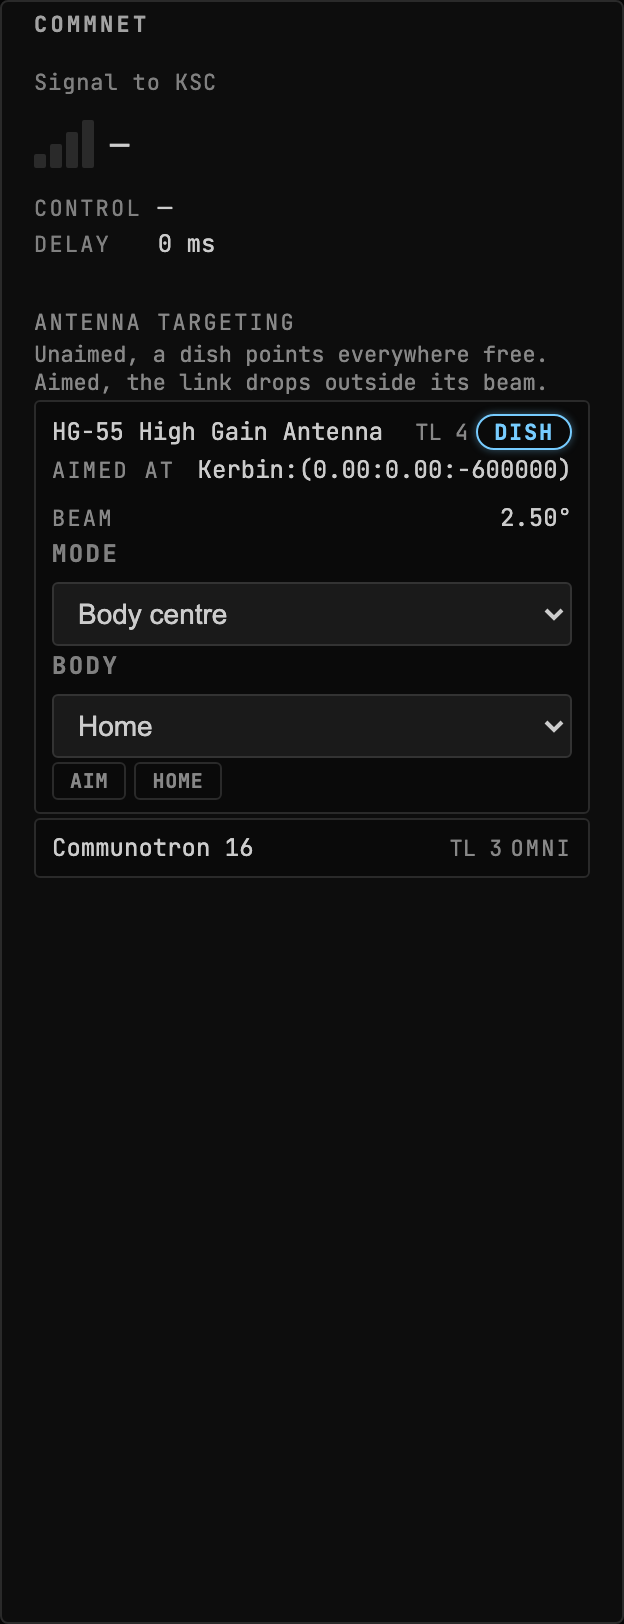
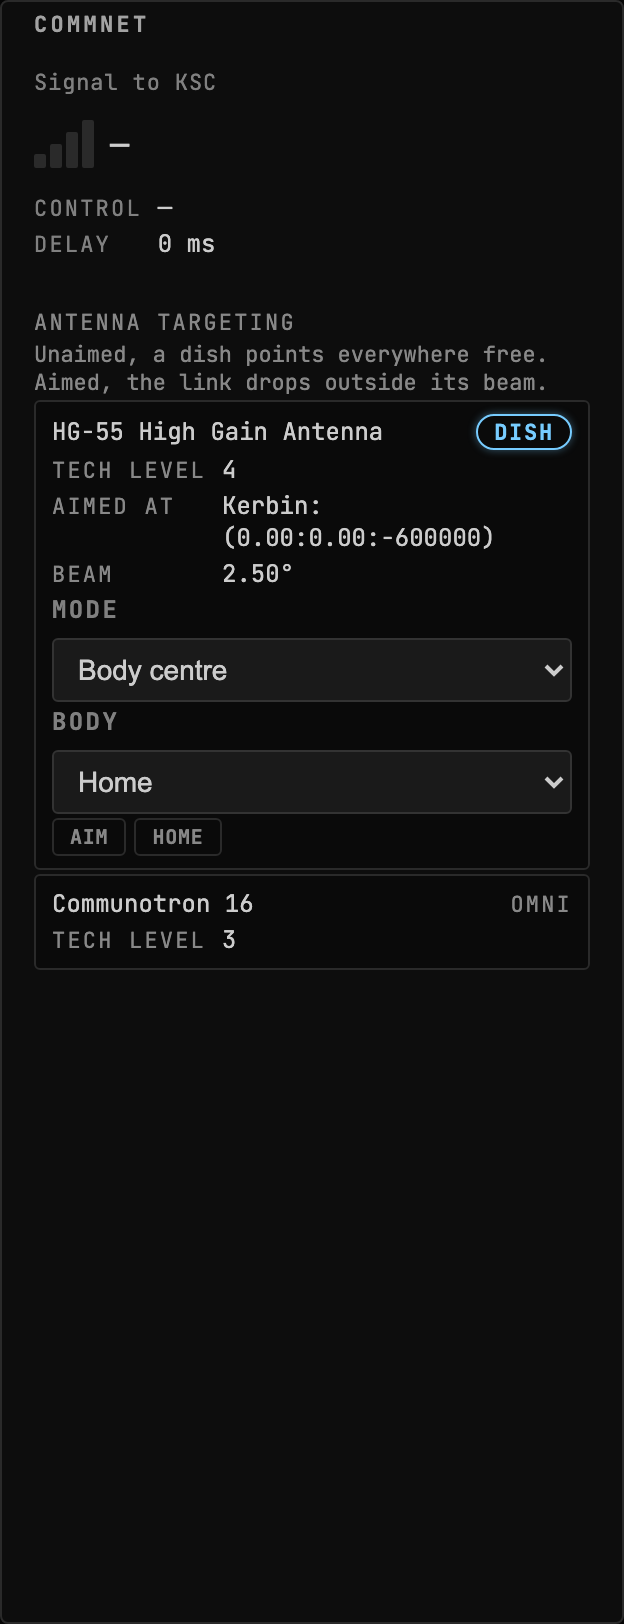
fix(realantennas): read each antenna card as label and value, and keep its badge after its name

diff --git a/mod/GonogoRealAntennasUplink/client/src/CommSignalAntennaTargets/index.tsx b/mod/GonogoRealAntennasUplink/client/src/CommSignalAntennaTargets/index.tsx
@@ -23,10 +23,12 @@ import {
   CommandButton,
   Field,
   FieldLabel,
+  Grid,
   Input,
   magnitudeOf,
   Select,
   Stack,
+  SubjectHeading,
   Text,
   Unit,
   usePanelDelay,
@@ -98,50 +100,63 @@ function AntennaCard({ antenna, bodies, vessels }: AntennaCardProps) {
   return (
     <Card>
       <Stack gap="xs">
-        <Cluster gap="sm" align="center" justify="between">
-          <Text size="sm" tone="default">
-            {antennaName}
-          </Text>
-          <Cluster gap="sm" align="center">
-            {antenna.techLevel != null ? (
-              <Text size="xs" tone="muted">
-                TL <Unit value={antenna.techLevel} />
-              </Text>
-            ) : null}
-            {/* A badge for the dish, plain text for the omni. Both are facts
-                about the hardware rather than states, and every severity a
-                Badge can carry paints one: green read as "good" for an antenna
-                that simply cannot be aimed. */}
-            {antenna.steerable ? (
+        {/*
+          A badge for the dish, plain text for the omni. Both are facts about the
+          hardware rather than states, and every severity a `Badge` can carry
+          paints one: green read as "this antenna is good" for one that simply
+          cannot be aimed.
+        */}
+        <SubjectHeading
+          status={
+            antenna.steerable ? (
               <Badge severity="info">Dish</Badge>
             ) : (
               <Text size="xs" tone="muted" style={LABEL_STYLE}>
                 Omni
               </Text>
-            )}
-          </Cluster>
-        </Cluster>
+            )
+          }
+        >
+          <Text size="sm" tone="default">
+            {antennaName}
+          </Text>
+        </SubjectHeading>
 
-        {antenna.steerable ? (
-          <Cluster gap="md" align="baseline" wrap>
-            <Text size="xs" tone="muted" style={LABEL_STYLE}>
-              Aimed at
-            </Text>
-            <Text size="sm" tone={antenna.targeted ? "default" : "muted"}>
-              {antenna.targeted ? antenna.targetLabel : "Not aimed"}
-            </Text>
-            {magnitudeOf(antenna.cone10Db) !== null ? (
-              <>
-                <Text size="xs" tone="muted" style={LABEL_STYLE}>
-                  Beam
-                </Text>
-                <Text size="sm" tone="default">
-                  <Unit value={antenna.cone10Db} />
-                </Text>
-              </>
-            ) : null}
-          </Cluster>
-        ) : null}
+        {/* The antenna's own facts. Tech level sits here rather than beside the
+            name: it is a property of the hardware, not a state of it, and the
+            heading's status slot is for states. */}
+        <Grid cols="auto 1fr" gap="md" rowGap="xs" align="baseline">
+          {antenna.techLevel != null ? (
+            <>
+              <Text size="xs" tone="muted" style={LABEL_STYLE}>
+                Tech level
+              </Text>
+              <Text size="sm" tone="default">
+                <Unit value={antenna.techLevel} />
+              </Text>
+            </>
+          ) : null}
+          {antenna.steerable ? (
+            <>
+              <Text size="xs" tone="muted" style={LABEL_STYLE}>
+                Aimed at
+              </Text>
+              <Text size="sm" tone={antenna.targeted ? "default" : "muted"}>
+                {antenna.targeted ? antenna.targetLabel : "Not aimed"}
+              </Text>
+            </>
+          ) : null}
+          {antenna.steerable && magnitudeOf(antenna.cone10Db) !== null ? (
+            <>
+              <Text size="xs" tone="muted" style={LABEL_STYLE}>
+                Beam
+              </Text>
+              <Text size="sm" tone="default">
+                <Unit value={antenna.cone10Db} />
+              </Text>
+            </>
+          ) : null}
+        </Grid>
 
         {antenna.steerable ? (
           <>

diff --git a/mod/GonogoRealAntennasUplink/client/src/CommSignalAntennaTargets/index.test.tsx b/mod/GonogoRealAntennasUplink/client/src/CommSignalAntennaTargets/index.test.tsx
@@ -17,9 +17,11 @@ afterEach(() => {
   renderedTrees.length = 0;
 });
 
-// `comms.delay` is carried because `useCommand` reads its one-way delay off it,
-// and a targeting command is delayed: a fixture without it reports every vantage
-// as instant.
+/**
+ * `comms.delay` is carried because `useCommand` reads its one-way delay off it,
+ * and a targeting command is delayed. A fixture without it reports every vantage
+ * as instant.
+ */
 const CARRIED = ["realantennas.antennas", "comms.delay"];
 
 /** One antenna as the mod publishes it, hydrated the way the decode path leaves it. */
